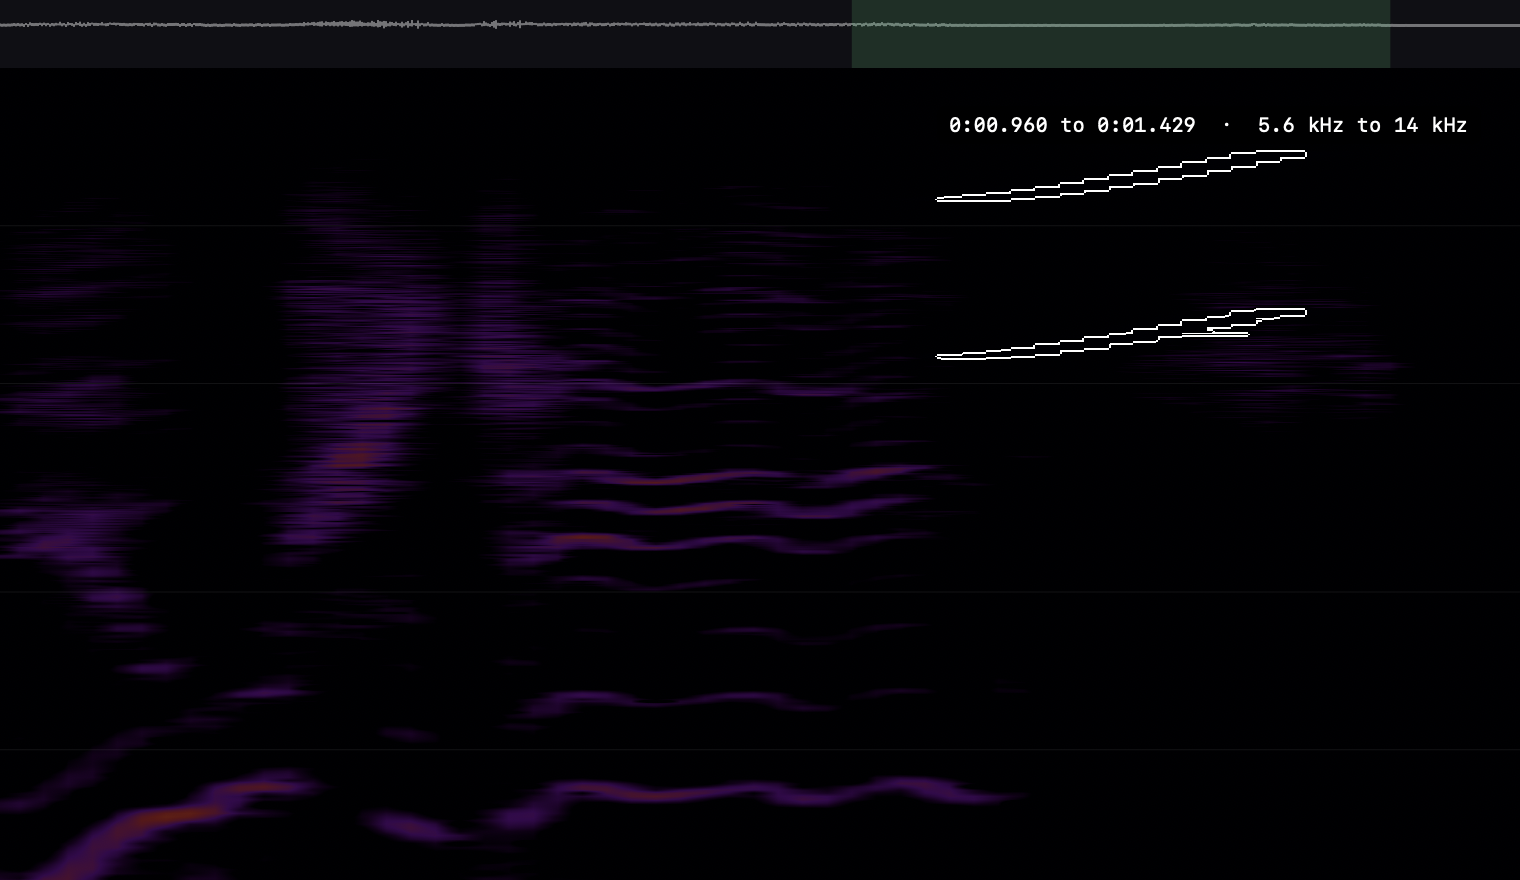
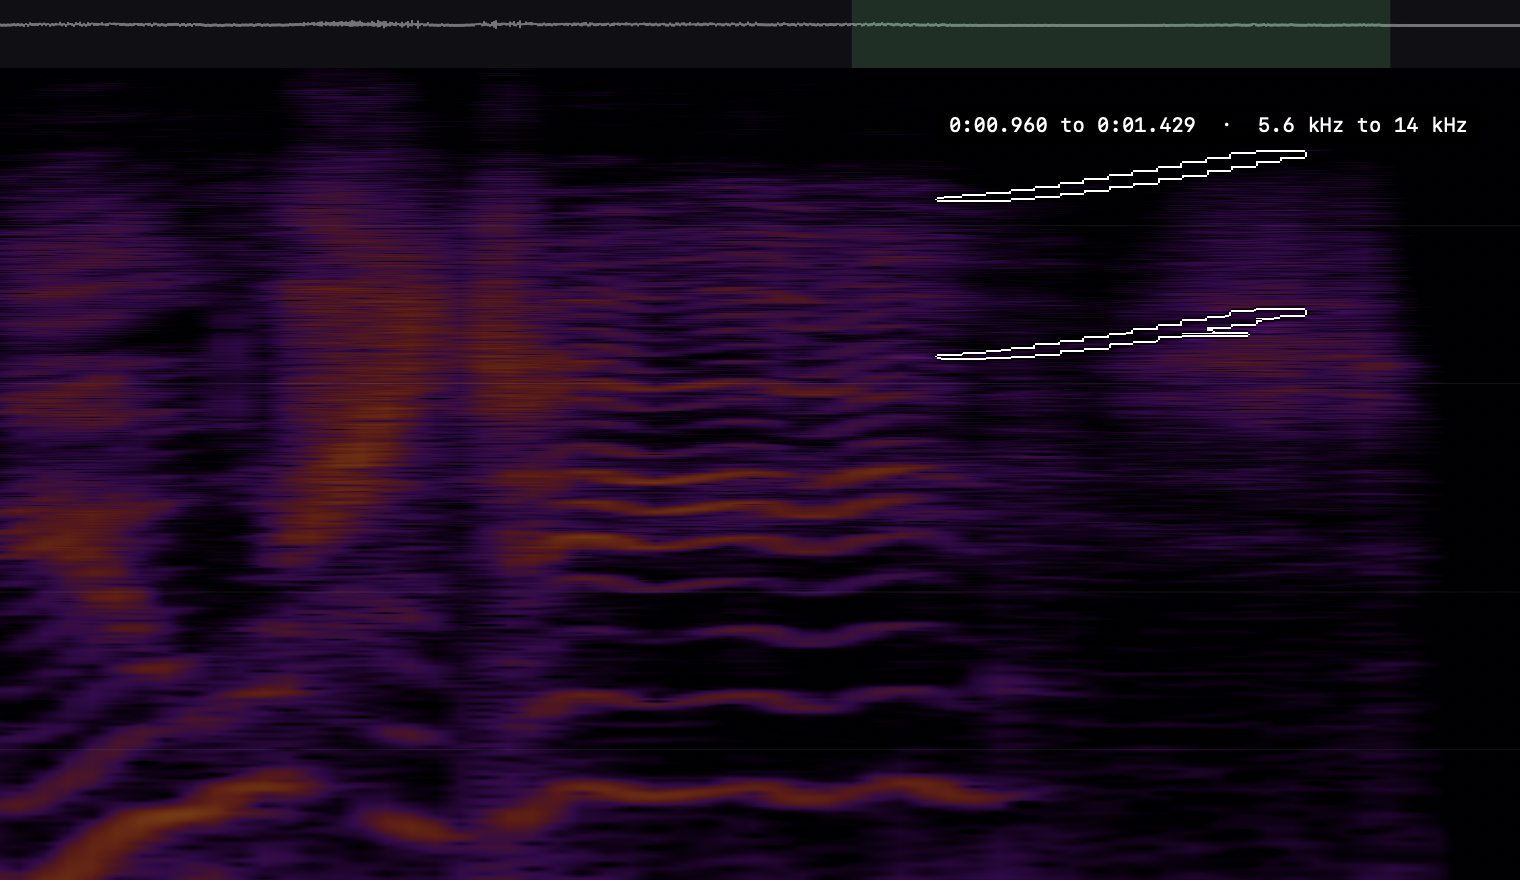
Specula 2.0: brighter Spectral screenshots, the guide's Overlap line
The Spectral task, the wand selection and the repair before and after,
captured again with the floor and ceiling set for the dialogue
(-95 / -14 dB): the range that suited a loud song left speech too dark.
The guide says what Overlap does now that the spectrogram blends between
its columns.

Claude-Session: https://claude.ai/code/session_0188d7MUJdfutGY8Bn3ca4tM

diff --git a/specula/guide.html b/specula/guide.html
@@ -1371,7 +1371,7 @@
         <li><strong>Colormap</strong>: Inferno (high contrast, dark background, warm highlights), Turbo (full rainbow), Plasma (purple, magenta, yellow) or Viridis (perceptually uniform, blue, green, yellow). <strong>Glow</strong> adds a soft bloom around bright transients (0 for none).</li>
         <li><strong>Frequency scale</strong>: Log, or Mel, which gives more resolution in the vocal range (200 Hz to 4 kHz).</li>
         <li><strong>Window size</strong> (512 to 16384, default 4096): the time against frequency trade-off. At 48 kHz, 512 is about 11 ms and 4096 about 85 ms.</li>
-        <li><strong>Overlap</strong>: how many columns per second, which sets the smoothness of the time axis, not the resolution. A long file's spectrogram caps its column count whatever the overlap.</li>
+        <li><strong>Overlap</strong>: how many columns per second, which sets how much time detail a short file or a zoomed-in view shows, not the resolution. Between columns the spectrogram blends smoothly, as Spectral's canvas does. A long file's spectrogram caps its column count whatever the overlap.</li>
         </ul>
         <table>
         <thead>
